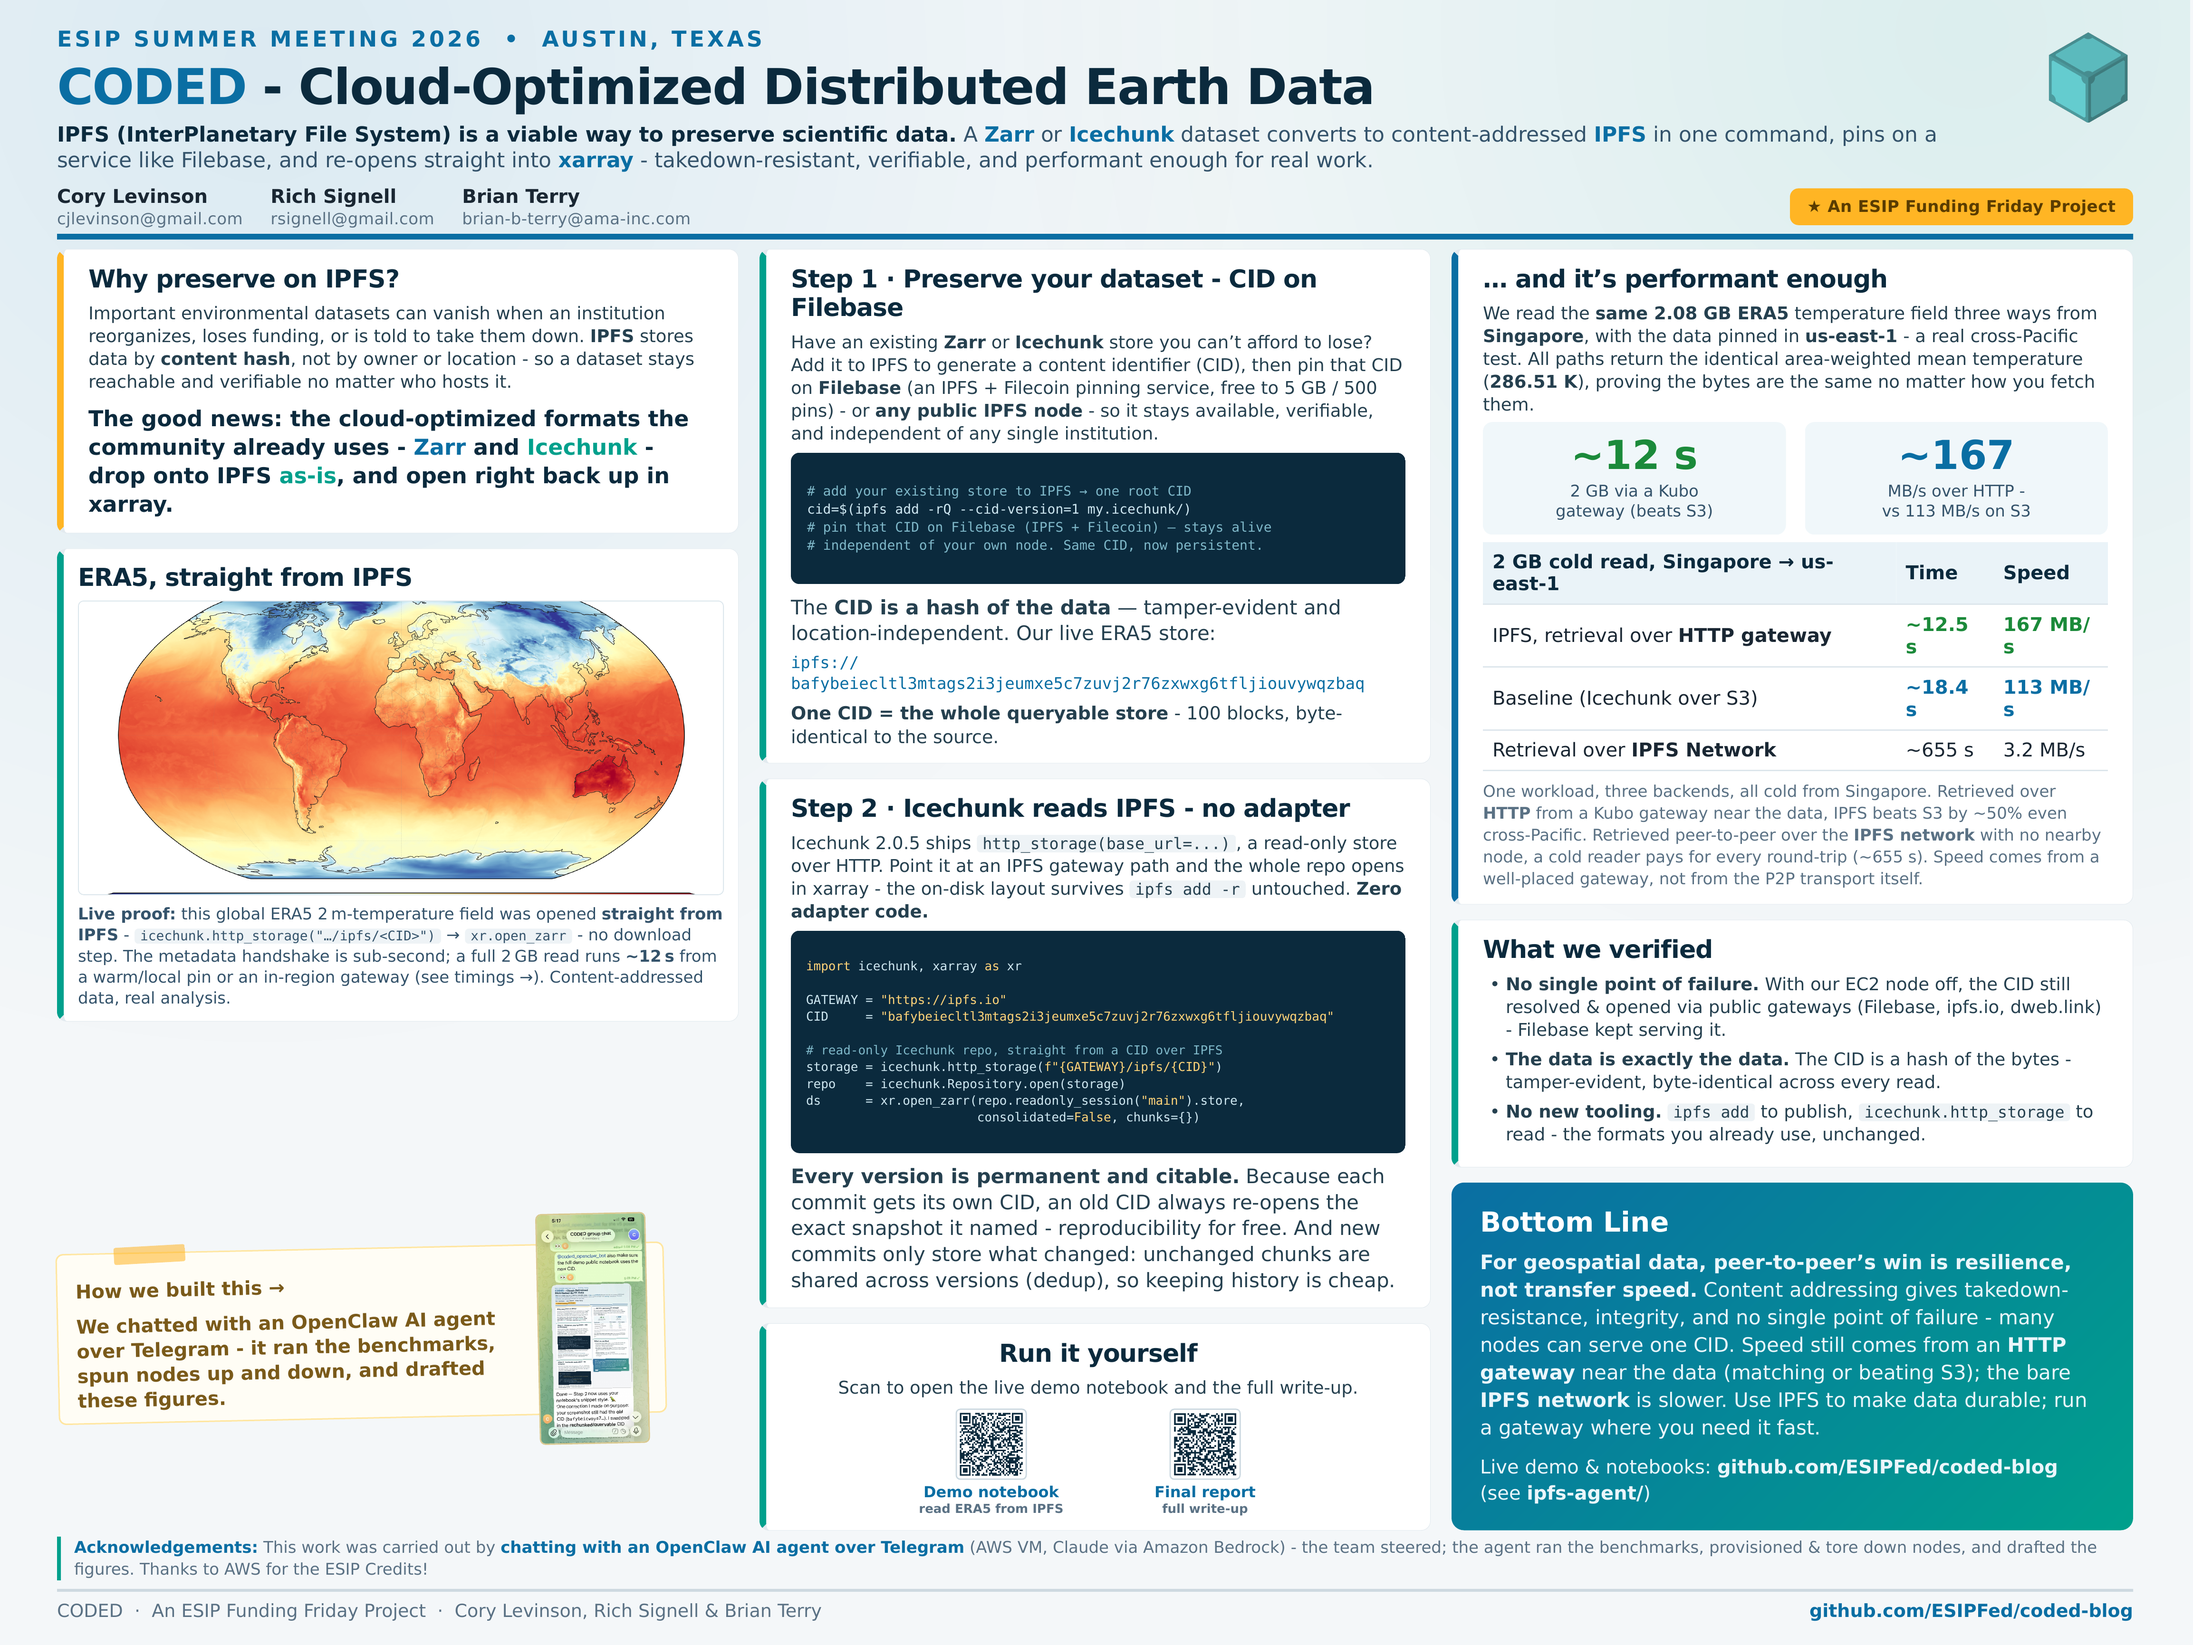
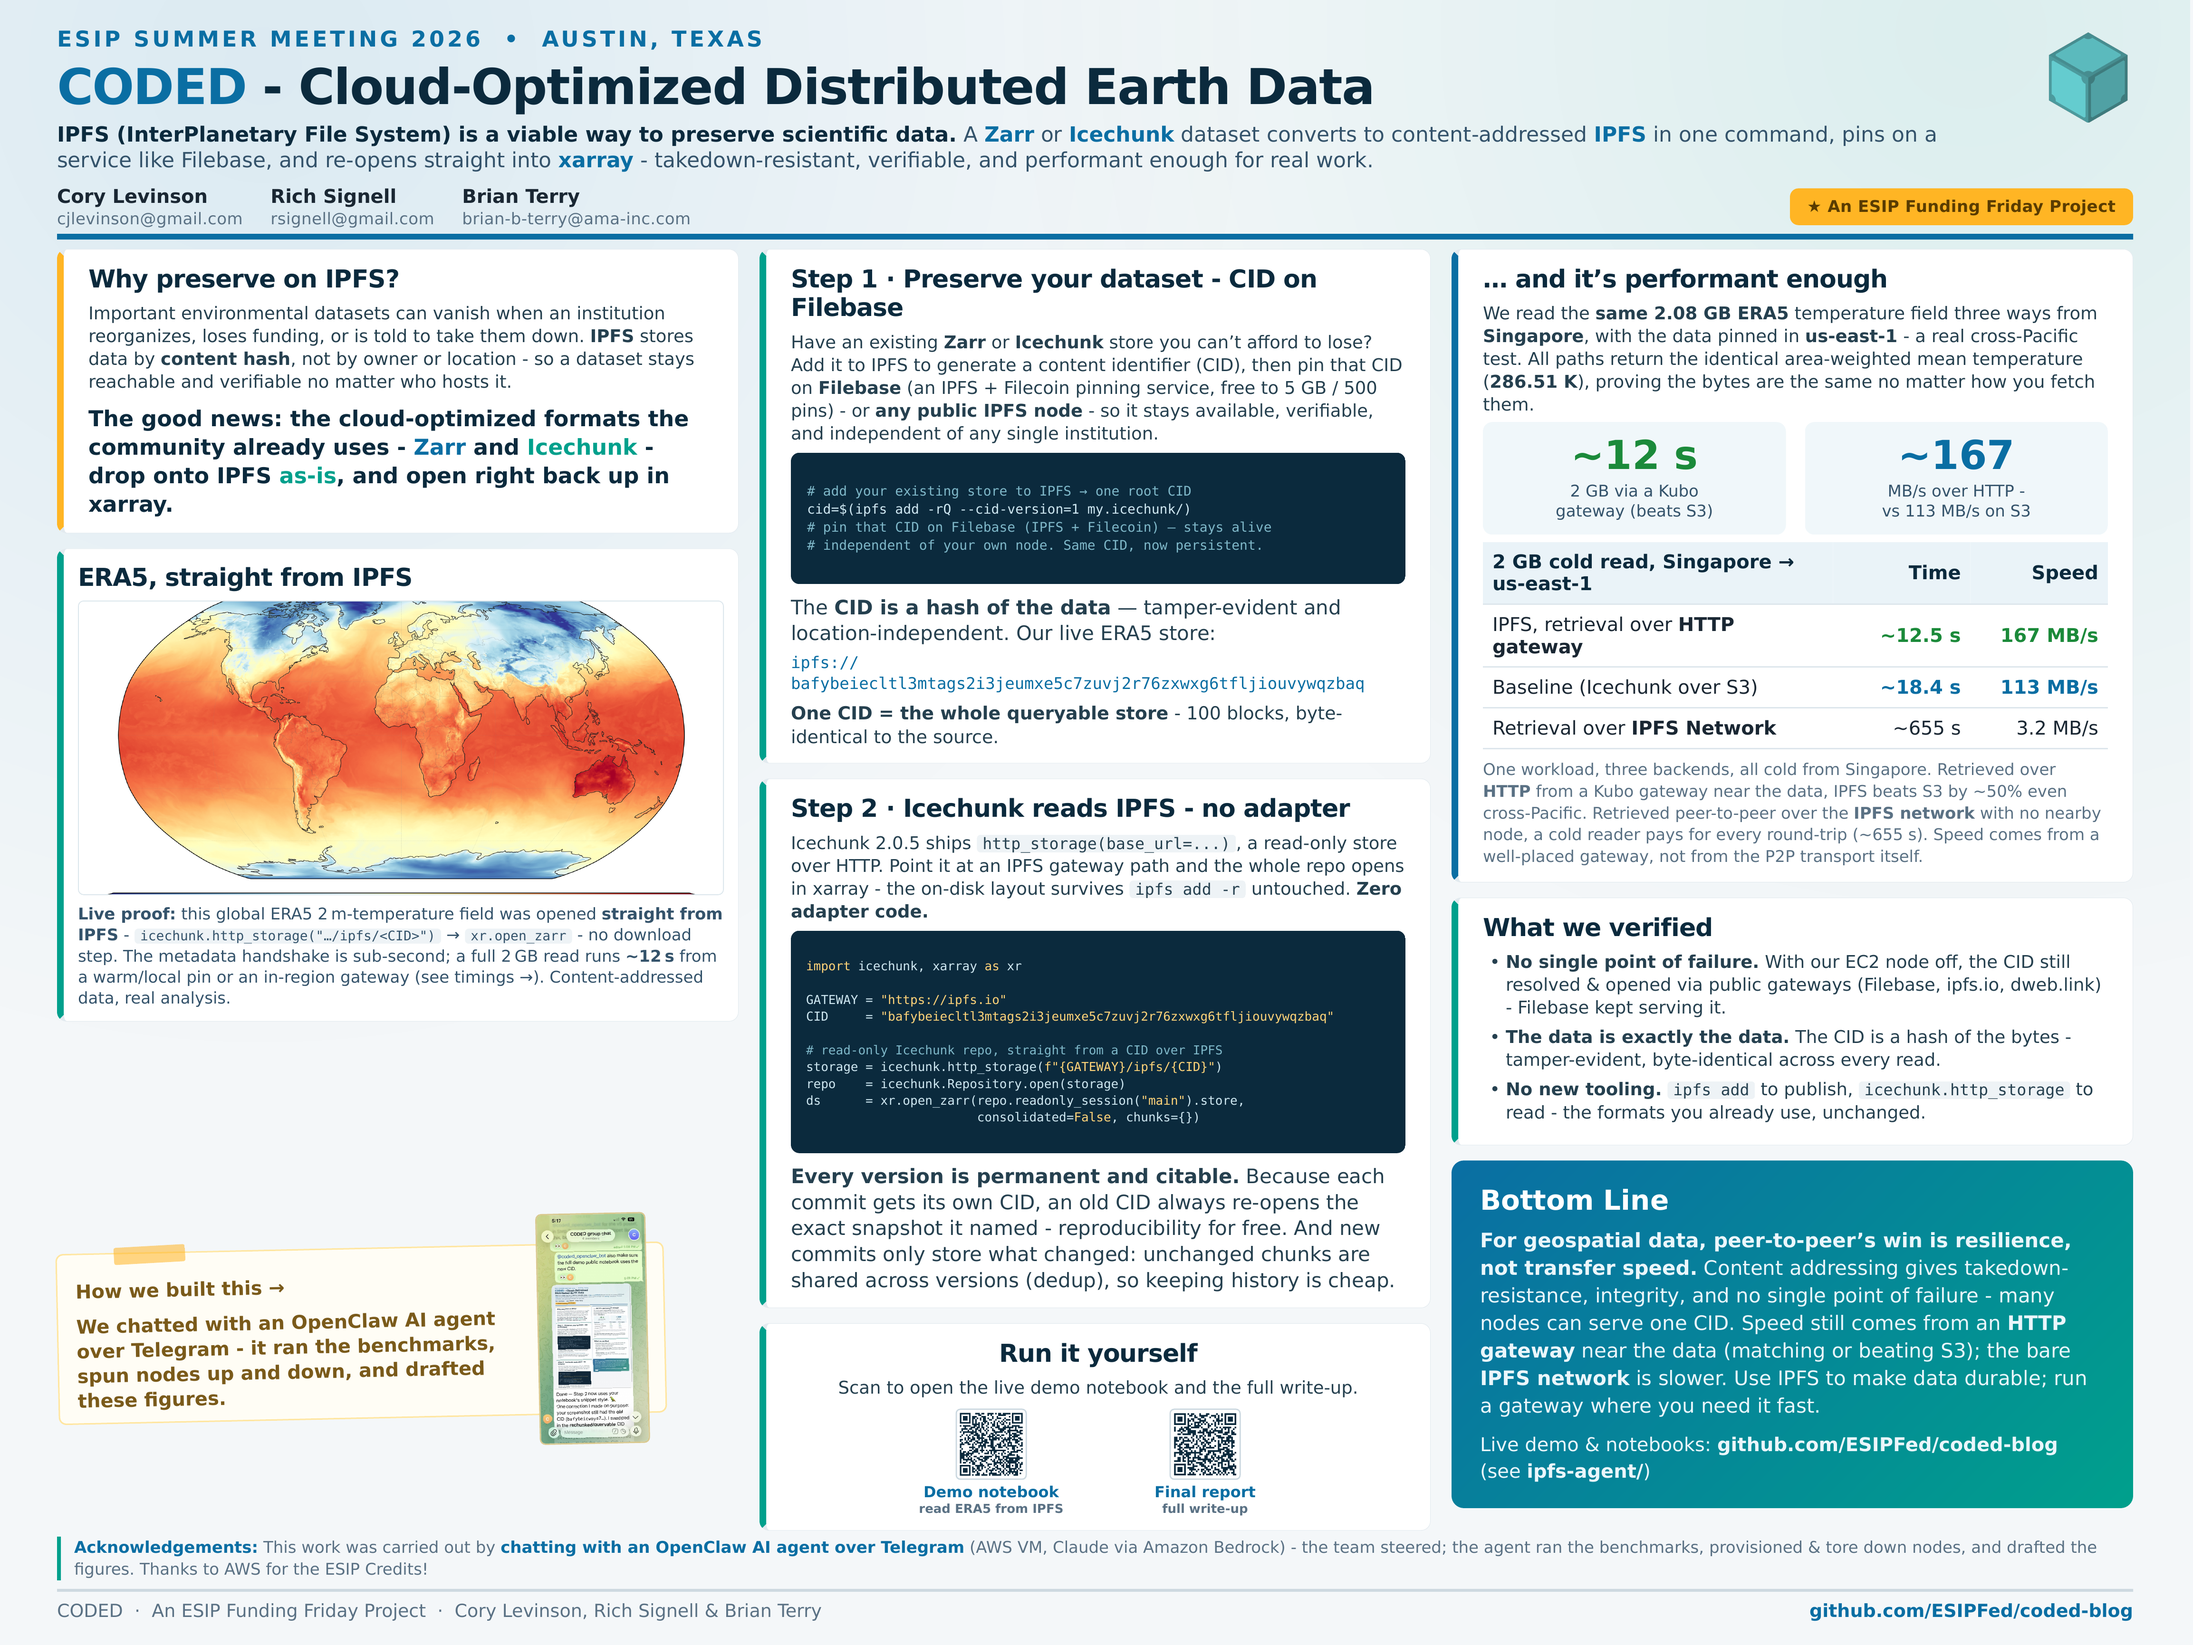
poster v7: nowrap + right-align numeric table cells, widen label column

Changed region(s): [[0.6554, 0.3432, 0.9675, 0.9359]]

diff --git a/ipfs-agent/posters/esip_ipfs_poster_v7_landscape.html b/ipfs-agent/posters/esip_ipfs_poster_v7_landscape.html
@@ -110,11 +110,12 @@
   code { font-family: "SF Mono", Menlo, Consolas, monospace; font-size: 0.9em; background:#eef3f6; padding: 2px 12px; border-radius: 8px; }
 
   /* ---------- TABLE ---------- */
-  table { width: 100%; border-collapse: collapse; margin-top: 16px; }
+  table { width: 100%; border-collapse: collapse; margin-top: 16px; table-layout: fixed; }
   th, td {
     font-size: 40px; text-align: left;
     padding: 18px 20px; border-bottom: 3px solid #dde6ec;
   }
+  th:not(:first-child), td:not(:first-child) { text-align: right; white-space: nowrap; width: 22%; }
   th {
     background: #eaf3f8; color: #0b2a3d; font-weight: 800;
     font-size: 40px;
